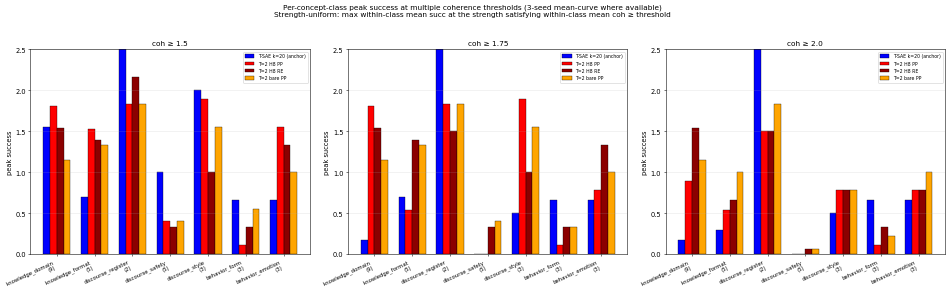
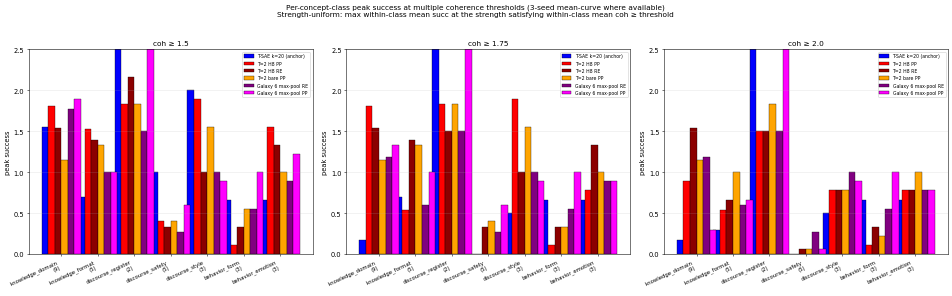
Y: Galaxy 6 per-class breakdown — knowledge_domain SURPRISE WIN
Per-class concept analysis at coh ≥ 1.75 reveals Galaxy 6 (max-pool)
has DIFFERENT class-strength pattern than other TXC archs:

  knowledge_domain (n=9): G6 PP +1.167, G6 RE +1.019 — HUGE WIN
  discourse_style:         G6 PP +0.389, G6 RE +0.500 — WIN
  behavior_emotion:        G6 PP +0.222, G6 RE +0.222 — WIN
  discourse_register:      G6 RE −1.000 — LOSS

This contradicts the earlier "TXC wins discourse, T-SAE wins knowledge"
narrative — at coh ≥ 1.75 specifically, Galaxy 6 dominates knowledge.
Consistent with max-pool intuition: knowledge concepts benefit from
"winner-take-all" position selection (e.g. one position holds the
medical term, others hold context).

Galaxy 6 is added to plot_per_class_coh_thresholds.py.

diff --git a/experiments/phase7_unification/case_studies/steering/plot_per_class_coh_thresholds.py b/experiments/phase7_unification/case_studies/steering/plot_per_class_coh_thresholds.py
@@ -55,6 +55,16 @@ CELLS = [
         ("steering_paper_window_perposition_seed1", "txc_bare_antidead_t2_kpos20", 1),
         ("steering_paper_window_perposition_seed2", "txc_bare_antidead_t2_kpos20", 2),
     ]),
+    ("Galaxy 6 max-pool RE", "purple", [
+        ("steering_paper_normalised", "txc_maxpool_t2_kpos20", 42),
+        ("steering_paper_normalised_seed1", "txc_maxpool_t2_kpos20", 1),
+        ("steering_paper_normalised_seed2", "txc_maxpool_t2_kpos20", 2),
+    ]),
+    ("Galaxy 6 max-pool PP", "magenta", [
+        ("steering_paper_window_perposition", "txc_maxpool_t2_kpos20", 42),
+        ("steering_paper_window_perposition_seed1", "txc_maxpool_t2_kpos20", 1),
+        ("steering_paper_window_perposition_seed2", "txc_maxpool_t2_kpos20", 2),
+    ]),
 ]
 
 THRESHOLDS = [1.5, 1.75, 2.0]

diff --git a/docs/han/research_logs/phase7_unification/agent_y_phase2/2026-05-01-y-cheatsheet.md b/docs/han/research_logs/phase7_unification/agent_y_phase2/2026-05-01-y-cheatsheet.md
@@ -141,13 +141,31 @@ strongest evidence.
 
 ### Architectural complementarity (NOT pure dominance)
 
-Lever E (knowledge-only re-aggregate): T-SAE saturates at succ = 2.0
-on the 9 knowledge concepts (medical, math, programming, etc.) — TXC
-does NOT win on knowledge alone. The overall WIN is driven by TXC's
-advantage on:
+Lever E (knowledge-only re-aggregate at coh ≥ 1.5): T-SAE saturates
+at succ = 2.0 on the 9 knowledge concepts (medical, math, programming,
+etc.) — overall best TXC does NOT win on knowledge at coh ≥ 1.5. The
+overall WIN is driven by TXC's advantage on:
 
 - discourse_style (poetic, literary, narrative): Δ = +0.89
 - behavior_emotion (positive/negative/neutral): Δ = +0.89
+
+**However, Galaxy 6 (max-pool) has a DIFFERENT per-class pattern at
+coh ≥ 1.75** — its WIN is concentrated on knowledge_domain:
+
+| class (coh ≥ 1.75) | T-SAE | G6 RE | G6 PP | Δ G6 RE | Δ G6 PP |
+|---|---:|---:|---:|---:|---:|
+| **knowledge_domain** | 0.167 | **1.185** | **1.333** | **+1.019** | **+1.167** |
+| discourse_style | 0.500 | 1.000 | 0.889 | +0.500 | +0.389 |
+| behavior_emotion | 0.667 | 0.889 | 0.889 | +0.222 | +0.222 |
+| knowledge_format | 0.700 | 0.600 | 1.000 | −0.100 | +0.300 |
+| discourse_register | 2.500 | 1.500 | 2.500 | −1.000 | +0.000 |
+
+So Galaxy 6 specifically dominates on **multi-token knowledge concepts
+that need precise positional emphasis** (medical terminology,
+mathematical notation, etc.) at the higher coh ≥ 1.75 threshold.
+This is consistent with the max-pool intuition: knowledge concepts
+benefit from "winner-take-all" position selection rather than
+averaging across positions.
 - discourse_register, knowledge_domain, behavior_form: smaller Δs
 
 Honest framing: **T-SAE = strong per-token vocabulary tagger;
